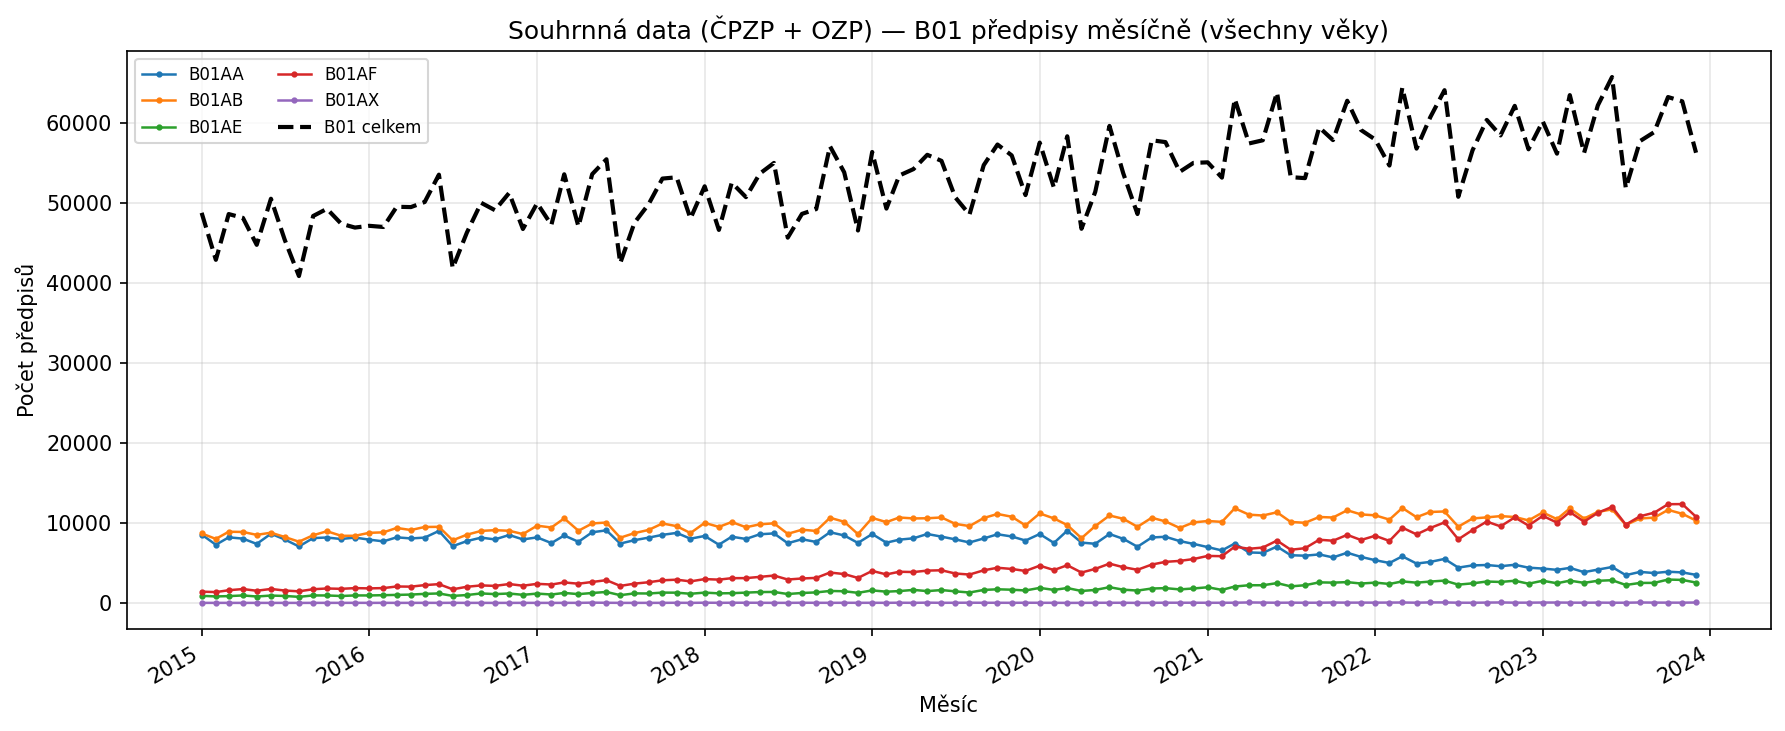
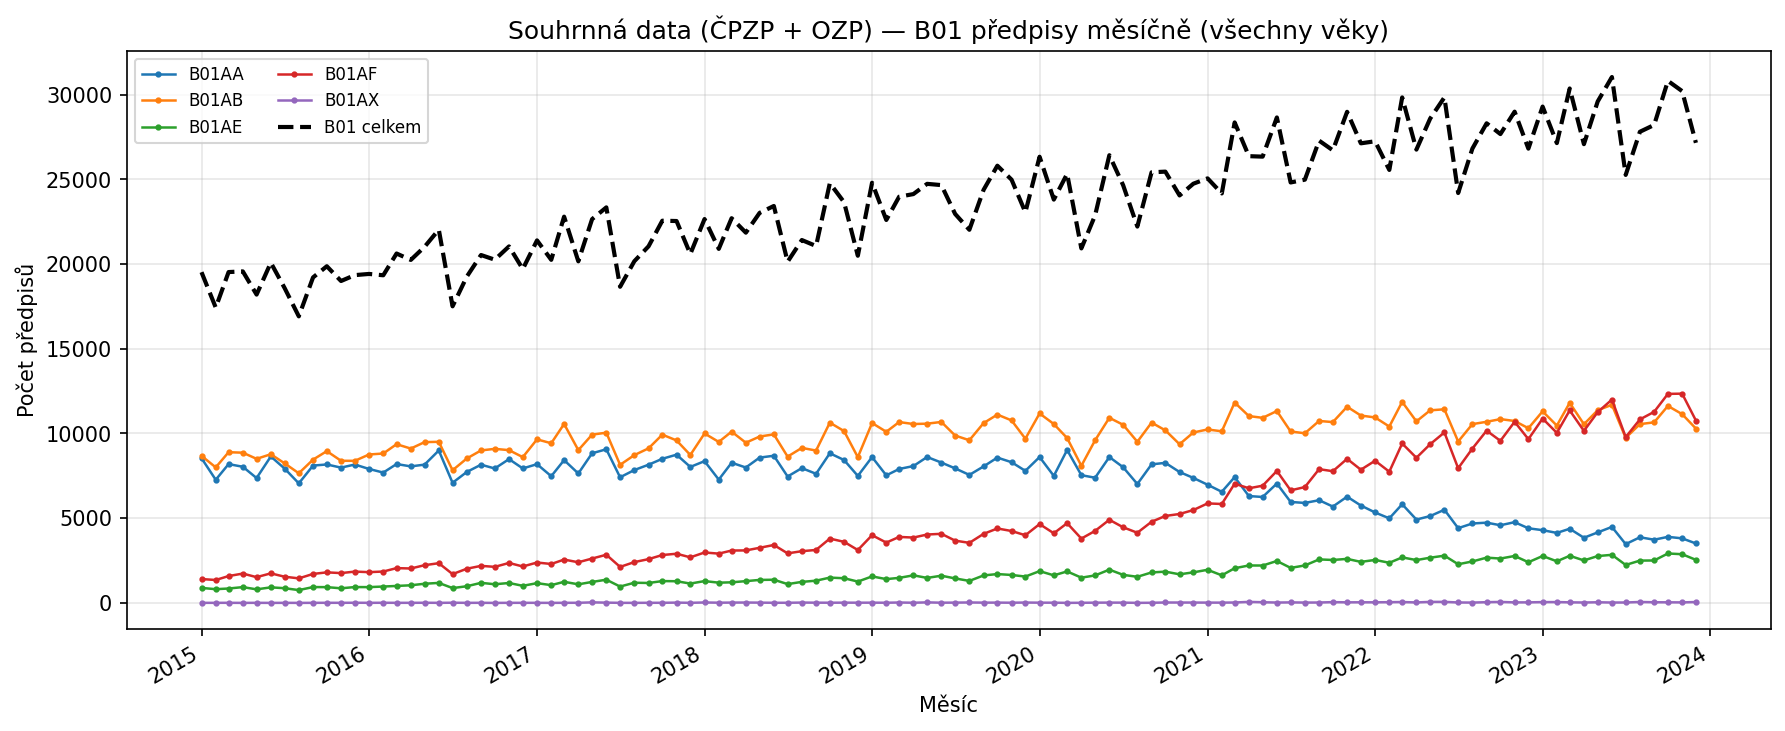
Ignore BO1AC/AD in outputs

diff --git a/srazlivost/generate_charts.py b/srazlivost/generate_charts.py
@@ -4,9 +4,10 @@ Měsíční křivky počtu předpisů B01 (srážlivost) — krok 1 z e-mailu Pa
 
 Pro každou pojišťovnu (cpzp, ozp, both_companies) generuje:
   - "age" sadu:  celek + 7 věkových dekád, čáry B01AA/AB/AE/AF/AX + B01 celkem
+                 ("B01 celkem" = součet jen těchto pěti podskupin, BEZ B01AC/AD)
   - "vax" sadu:  očkovaní + neočkovaní (stejné čáry jako výše)
   - specializaci: top 10 kódů odbornosti dle objemu + koš "ostatní",
-    počty za celé B01 (bez ATC rozpadu)
+    počty za celé B01 (bez ATC rozpadu, tj. včetně AC/AD)
 
 Věk = rok předpisu − rok narození (hrubý odhad, u OZP chybí měsíc narození).
 Očkovaný/neočkovaný = osoba má/nemá kdykoliv v datech alespoň jeden
@@ -145,23 +146,27 @@ def full_month_index() -> pl.DataFrame:
 
 
 def monthly_atc_counts(presc: pl.DataFrame, scope_filter: pl.Expr | None) -> pl.DataFrame:
-    """Wide tabulka: month, B01AA..B01AX, B01 celkem (počty), pro dané scope."""
-    scoped = presc if scope_filter is None else presc.filter(scope_filter)
+    """Wide tabulka: month, B01AA..B01AX, B01 celkem (počty), pro dané scope.
 
-    total = scoped.group_by("month").len().rename({"len": TOTAL_LABEL})
+    "B01 celkem" je součet jen zobrazených podskupin (AA/AB/AE/AF/AX) —
+    B01AC a B01AD se nevykreslují ani nezapočítávají do celkem."""
+    scoped = presc.filter(pl.col("atc5").is_in(ATC_SUBGROUPS))
+    if scope_filter is not None:
+        scoped = scoped.filter(scope_filter)
+
     present_subgroups = [c for c in ATC_SUBGROUPS if scoped.filter(pl.col("atc5") == c).height > 0]
     sub = (
-        scoped.filter(pl.col("atc5").is_in(ATC_SUBGROUPS))
-        .group_by("month", "atc5")
+        scoped.group_by("month", "atc5")
         .len()
         .pivot(on="atc5", index="month", values="len")
         if present_subgroups
         else pl.DataFrame({"month": []}, schema={"month": pl.Date})
     )
 
-    wide = full_month_index().join(total, on="month", how="left").join(sub, on="month", how="left")
-    value_cols = [c for c in ATC_SUBGROUPS if c in wide.columns] + [TOTAL_LABEL]
+    wide = full_month_index().join(sub, on="month", how="left")
+    value_cols = [c for c in ATC_SUBGROUPS if c in wide.columns]
     wide = wide.with_columns([pl.col(c).fill_null(0) for c in value_cols])
+    wide = wide.with_columns(pl.sum_horizontal(value_cols).alias(TOTAL_LABEL))
     return wide.sort("month")
 
 
